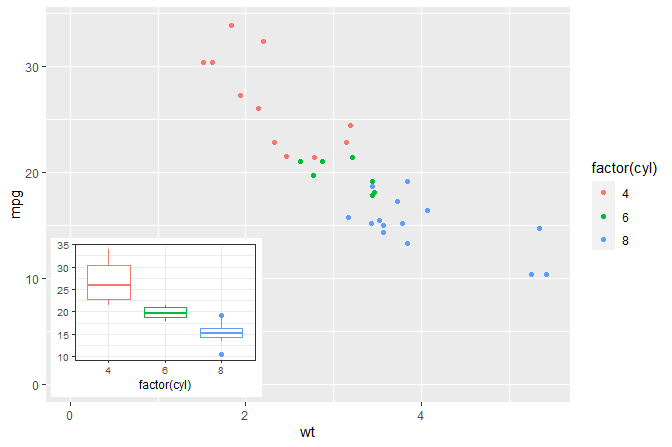
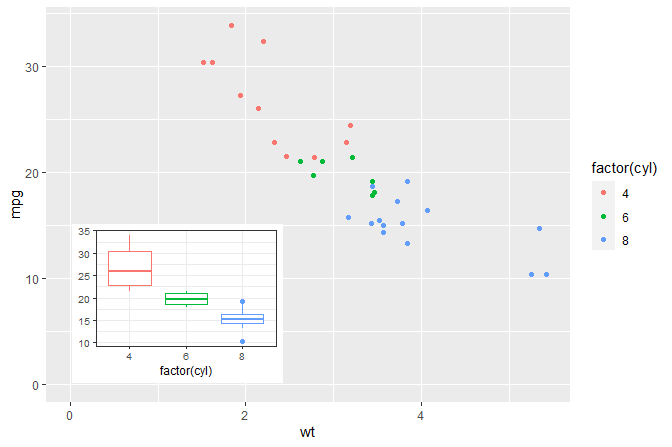
Documentation update
Update README , NEWS, DESCRIPTION, annotate() examples.

diff --git a/README.md b/README.md
@@ -176,11 +176,10 @@ p <- ggplot(mtcars, aes(factor(cyl), mpg, colour = factor(cyl))) +
   stat_boxplot() +
   labs(y = NULL) +
   theme_bw(9) + theme(legend.position = "none")
-df <- tibble(x = 0.01, y = 0.015, plot = list(p))
+
 ggplot(mtcars, aes(wt, mpg, colour = factor(cyl))) +
   geom_point() +
-  geom_plot_npc(data = df, mapping = aes(npcx = x, npcy = y, label = plot),
-                vjust = 0, hjust = 0) +
+  annotate("plot_npc", npcx = "left", npcy = "bottom", label = p) +
   expand_limits(y = 0, x = 0)
 ```
 
